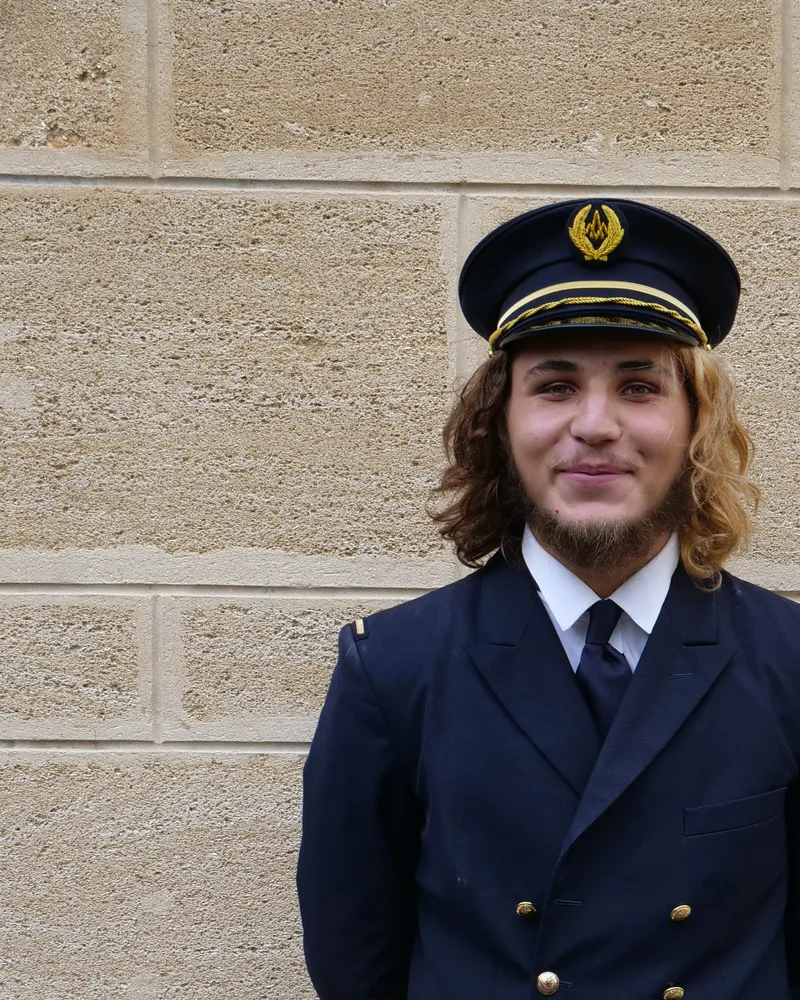
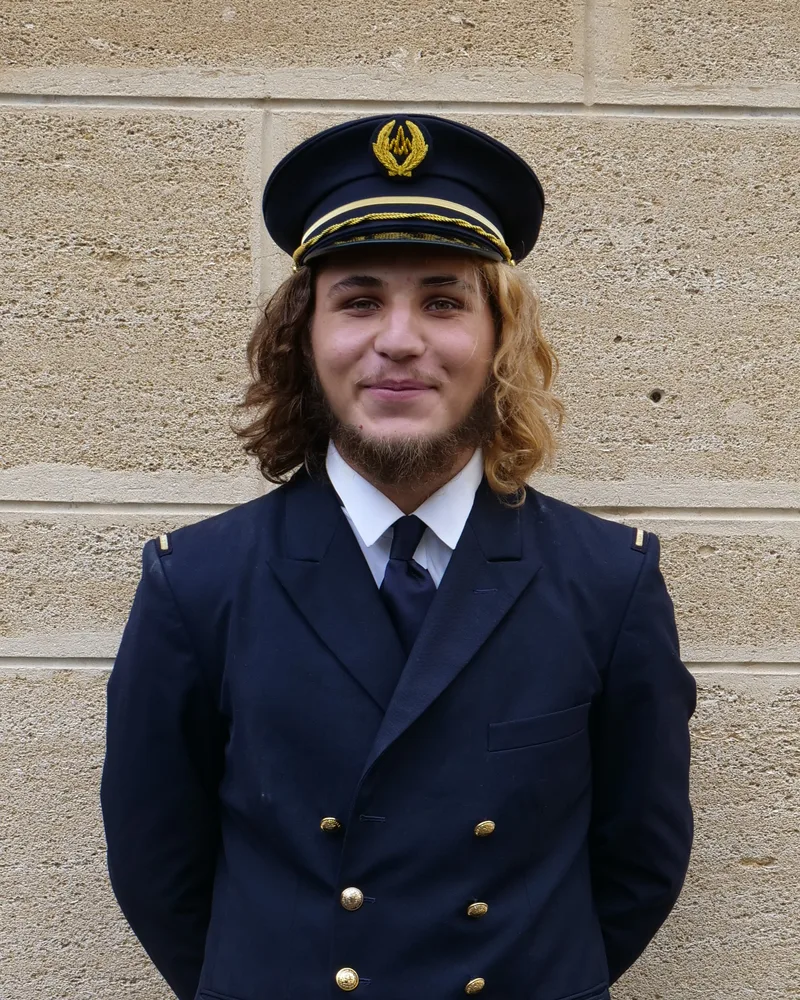
Équipe : Jules Vaills (deux L) et recadrage de Gabriel (#30)

diff --git a/content/equipe.js b/content/equipe.js
@@ -13,7 +13,7 @@ HG.equipe = {
   bureau: [
     { prenom: "Esteve", nom: "Ponson", role: "Président", photo: "assets/photos/equipe/esteve-ponson.webp" },
     { prenom: "Anatole", nom: "Martenot", role: "Vice-président", photo: "assets/photos/equipe/anatole-martenot.webp" },
-    { prenom: "Jules", nom: "Vails", role: "Trésorier", photo: "assets/photos/equipe/jules-vaills.webp" },
+    { prenom: "Jules", nom: "Vaills", role: "Trésorier", photo: "assets/photos/equipe/jules-vaills.webp" },
     { prenom: "Gabriel", nom: "Gourgeon", role: "Secrétaire", photo: "assets/photos/equipe/gabriel-gourgeon.webp" },
   ],
 
@@ -23,7 +23,7 @@ HG.equipe = {
     {
       titre: "Partenariats",
       texte: "Relation avec les sponsors et recherche de financement.",
-      membres: ["Esteve Ponson", "Anatole Martenot", "Jules Vails", "Gabriel Gourgeon", "Martin Vallayer"],
+      membres: ["Esteve Ponson", "Anatole Martenot", "Jules Vaills", "Gabriel Gourgeon", "Martin Vallayer"],
     },
     {
       titre: "Communication",
